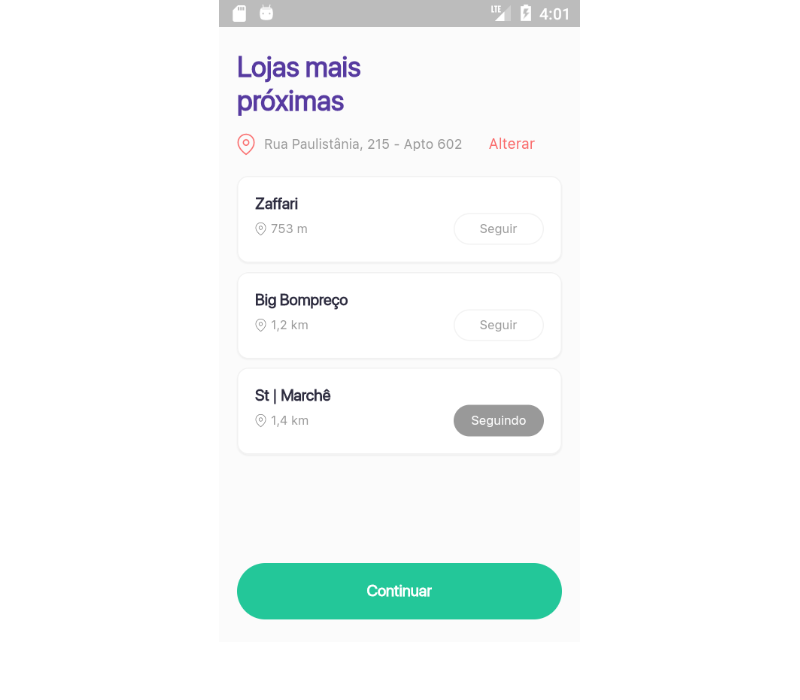
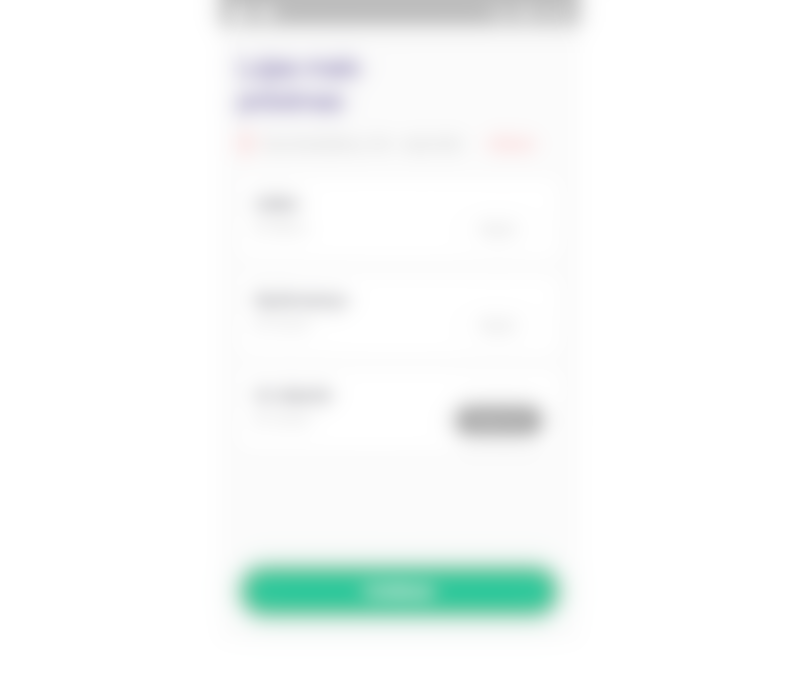
Melist desfocado

diff --git a/index.html b/index.html
@@ -82,7 +82,7 @@
                             <div class="portfolio-item-caption-content text-center text-white"><i
                                     class="fas fa-plus fa-3x"></i></div>
                         </div>
-                        <img class="img-fluid" src="assets/img/portfolio/melist-capa.png" alt="" />
+                        <img class="img-fluid" src="assets/img/portfolio/market-capa.png" alt="" />
                     </div>
                 </div>
                 <!-- Portfolio Item 2-->
@@ -309,7 +309,7 @@
                             <div class="col-lg-12">
                                 <!-- Portfolio Modal - Title-->
                                 <h2 class="portfolio-modal-title text-secondary text-uppercase mb-0"
-                                    id="portfolioModal1Label">Melist</h2>
+                                    id="portfolioModal1Label">Supermarket Shopping List app</h2>
                                 <!-- Icon Divider-->
                                 <div class="divider-custom">
                                     <div class="divider-custom-line"></div>
@@ -407,22 +407,22 @@
 
 
 
-                                    <p></br> &nbsp &nbsp Melist is an application that helps
+                                    <p></br> &nbsp &nbsp This is an application that helps
                                         people buy products at the best price in super markets.<br>
                                         &nbsp &nbsp First, the user selects the products he wants to buy,
                                         and then the app shows all the super markets in the
                                         region with their respective prices.<br>
-                                        &nbsp &nbsp I built this app alone in 21 days (the layout was ready,
-                                        it was designed by <a href="https://br.linkedin.com/in/edymarcozzi"
-                                            target="_blank">Édy
-                                            Marcozzi</a>), but the app does not
+                                        &nbsp &nbsp I built this app alone in 21 days (the layout was ready), but the
+                                        app does not
                                         communicate with any api/database. All of your data is static (dummy
                                         data).<br>
                                         &nbsp &nbsp Unfortunately, the client who paid me to do the application depends
                                         on
                                         investors to proceed the next stage of the project.
                                         I hope to continue to build this application that has an incredible
-                                        purpose.<br><br>
+                                        purpose.<br>
+                                        Note: Some images needed to be blurred.
+                                        <br>
                                     </p>
 
                                 </div>
@@ -637,7 +637,7 @@
                             <div class="col-lg-12">
                                 <!-- Portfolio Modal - Title-->
                                 <h2 class="portfolio-modal-title text-secondary text-uppercase mb-0"
-                                    id="portfolioModal1Label">Aloha Club</h2>
+                                    id="portfolioModal1Label">Tarefas</h2>
                                 <!-- Icon Divider-->
                                 <div class="divider-custom">
                                     <div class="divider-custom-line"></div>
